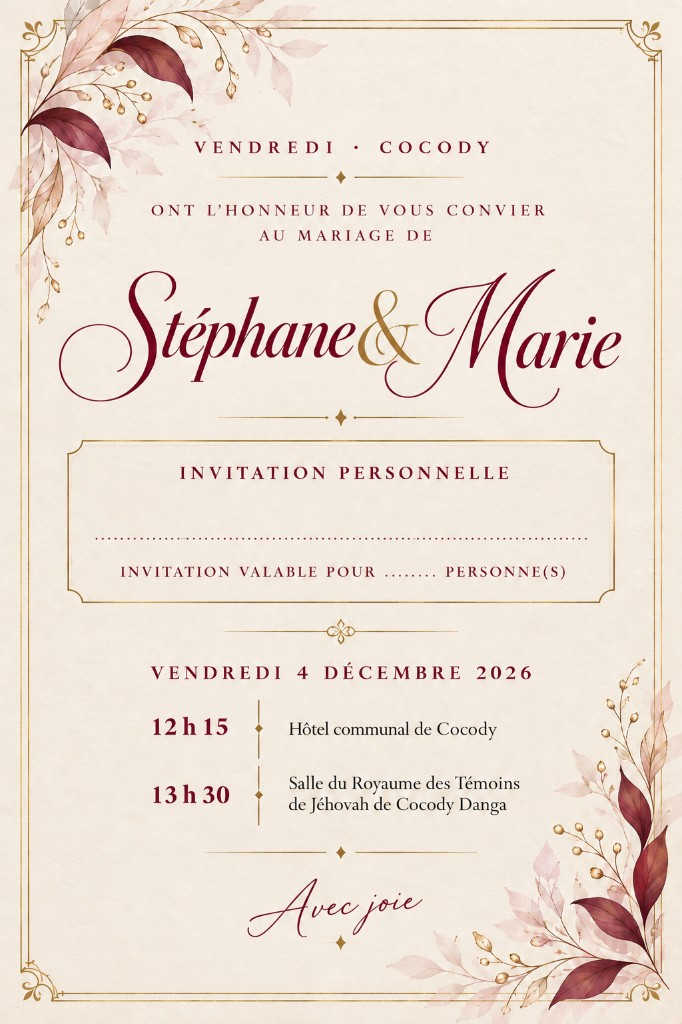
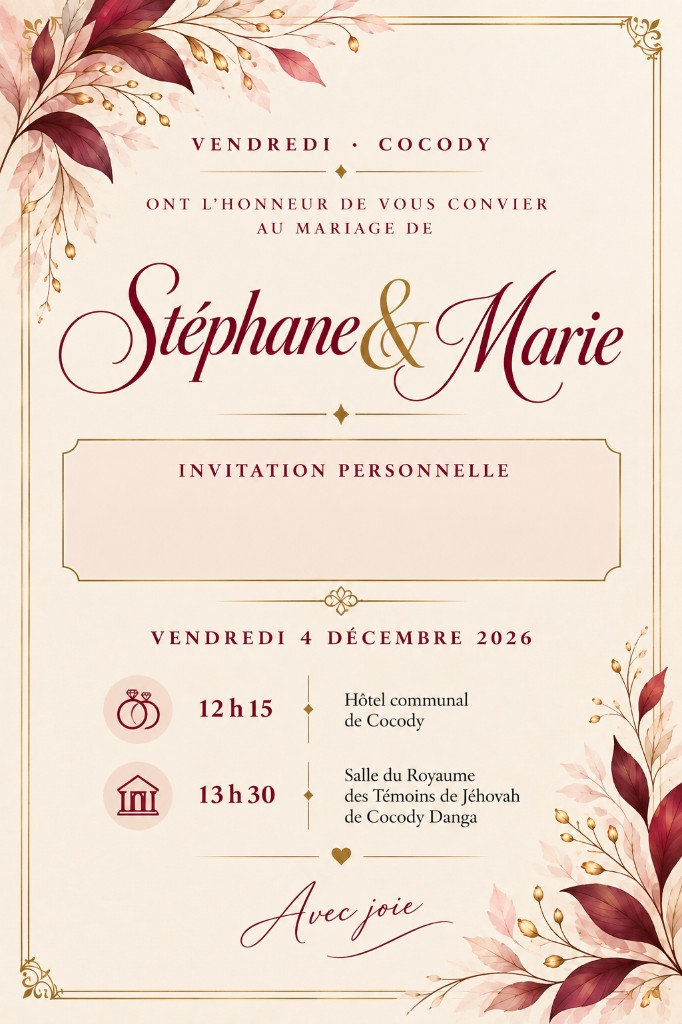
refactor: update PersonalInviteCard and CSS styles for improved layout, responsiveness, and visual consistency. Introduce new fields and enhance accessibility with updated aria-labels and translations.

diff --git a/src/index.css b/src/index.css
@@ -2349,63 +2349,133 @@ body {
     user-select: none;
 }
 
-.personal-invite-overlay {
+.personal-invite-fields {
     position: absolute;
-    z-index: 1;
-    inset: 0;
+    z-index: 2;
+    top: var(--pi-fields-top, 43.75%);
+    left: var(--pi-fields-left, 14.4%);
+    width: var(--pi-fields-width, 71.2%);
+    height: var(--pi-fields-height, 11.5%);
+    box-sizing: border-box;
+    display: flex;
+    flex-direction: column;
+    align-items: stretch;
+    justify-content: space-between;
+    gap: 0;
+    padding: clamp(0.4rem, 2.2cqi, 0.6rem) clamp(0.45rem, 2.5cqi, 0.7rem)
+        clamp(0.45rem, 2.2cqi, 0.65rem);
+    overflow: hidden;
+    text-align: center;
     pointer-events: none;
 }
 
+.personal-invite-name-wrap {
+    display: flex;
+    flex: 1 1 auto;
+    align-items: flex-end;
+    justify-content: center;
+    min-height: 0;
+    padding-top: clamp(0.45rem, 2.4cqi, 0.75rem);
+    padding-bottom: clamp(0.05rem, 0.35cqi, 0.12rem);
+}
+
 .personal-invite-name {
-    position: absolute;
-    left: var(--pi-name-x, 50%);
-    top: var(--pi-name-y, 49.6%);
-    width: var(--pi-name-max-w, 68%);
+    width: 100%;
+    max-width: 100%;
     margin: 0;
-    transform: translate(-50%, -50%);
-    font-family: "Cormorant Garamond", Georgia, "Times New Roman", serif;
-    font-size: var(--pi-name-fs, 3.67cqi);
+    font-family: "Cormorant Garamond", "Playfair Display", Georgia, serif;
+    font-size: var(--pi-name-fs, 4.11cqi);
     font-weight: 600;
+    font-style: italic;
     font-synthesis: none;
-    line-height: 1.15;
-    letter-spacing: 0.025em;
-    text-align: center;
+    line-height: 1.08;
+    letter-spacing: 0.03em;
     text-transform: none;
     white-space: nowrap;
     overflow: hidden;
     text-overflow: ellipsis;
-    color: #521018;
+    color: #5a0a18;
+    text-shadow: 0 0.5px 0 rgba(255, 252, 248, 0.35);
 }
 
 .personal-invite-name--md {
-    font-size: var(--pi-name-fs-md, 3.23cqi);
+    font-size: var(--pi-name-fs-md, 3.52cqi);
 }
 
 .personal-invite-name--sm {
-    font-size: var(--pi-name-fs-sm, 2.79cqi);
-    letter-spacing: 0.018em;
+    font-size: var(--pi-name-fs-sm, 2.93cqi);
 }
 
 .personal-invite-name--xs {
-    font-size: var(--pi-name-fs-xs, 2.35cqi);
-    letter-spacing: 0.012em;
+    font-size: var(--pi-name-fs-xs, 2.49cqi);
 }
 
-.personal-invite-count {
-    position: absolute;
-    left: var(--pi-count-x, 59.4%);
-    top: var(--pi-count-y, 55.5%);
-    margin: 0;
-    transform: translate(-50%, -50%);
-    font-family: Cinzel, "Cormorant Garamond", Georgia, serif;
-    font-size: var(--pi-count-fs, 2.13cqi);
-    font-weight: 700;
-    font-synthesis: none;
-    font-variant-numeric: tabular-nums;
+.personal-invite-sep {
+    display: flex;
+    flex-shrink: 0;
+    align-items: center;
+    justify-content: center;
+    gap: clamp(0.25rem, 1.2cqi, 0.45rem);
+    width: 100%;
+    margin: clamp(0.05rem, 0.35cqi, 0.15rem) 0;
+    opacity: 0.88;
+}
+
+.personal-invite-sep-line {
+    flex: 1 1 38%;
+    max-width: 5.5rem;
+    height: 1px;
+    background: linear-gradient(
+        90deg,
+        transparent,
+        rgba(201, 169, 98, 0.45) 20%,
+        rgba(201, 169, 98, 0.75) 50%,
+        rgba(201, 169, 98, 0.45) 80%,
+        transparent
+    );
+}
+
+.personal-invite-sep-gem {
+    flex-shrink: 0;
+    font-family: Cinzel, serif;
+    font-size: clamp(0.35rem, 1.05cqi, 0.5rem);
     line-height: 1;
+    color: #c9a962;
+}
+
+.personal-invite-party-line {
+    flex-shrink: 0;
+    margin: 0;
+    max-width: 100%;
+    font-family: Cinzel, "Cormorant Garamond", Georgia, serif;
+    font-size: var(--pi-party-fs, 1.69cqi);
+    font-weight: 600;
+    line-height: 1.35;
     letter-spacing: 0.05em;
-    text-align: center;
-    color: #521018;
+    text-transform: uppercase;
+    text-wrap: balance;
+    color: #4a0e17;
+    text-shadow:
+        0 1px 0 rgba(255, 252, 248, 0.85),
+        0 0 1px rgba(255, 252, 248, 0.5);
+}
+
+.personal-invite-party-label {
+    font-weight: 600;
+    letter-spacing: 0.06em;
+    color: #4a0e17;
+}
+
+.personal-invite-party-count {
+    font-size: var(--pi-party-count-fs, 2.05cqi);
+    font-weight: 700;
+    letter-spacing: 0.03em;
+    color: #7a5a12;
+}
+
+.personal-invite-party-unit {
+    font-weight: 600;
+    color: #4a0e17;
 }
 
 .palette-gem {

diff --git a/src/components/invite/PersonalInviteCard.jsx b/src/components/invite/PersonalInviteCard.jsx
@@ -4,9 +4,10 @@ import {
   guestNameSizeClass,
   personalInviteCssVars,
 } from "@/lib/personal-invite-layout";
+import { useI18n } from "@/lib/locale";
 import { useEffect } from "react";
 
-const SEND_CARD_BG = `${process.env.PUBLIC_URL || ""}/images/carte-invitation-envoi.jpg?v=20261017-stephane-marie`;
+const SEND_CARD_BG = `${process.env.PUBLIC_URL || ""}/images/carte-invitation-envoi.jpg?v=20261017-florale-raffinee2`;
 
 const partySize = (guest) => 1 + Number(guest?.accompagnants || 0);
 
@@ -14,8 +15,10 @@ const partySize = (guest) => 1 + Number(guest?.accompagnants || 0);
  * @param {{ guest: { nom: string, accompagnants?: number }, testId?: string }} props
  */
 export default function PersonalInviteCard({ guest, testId = "personal-invite-card" }) {
+  const { m } = useI18n();
   const displayName = guestNameDisplay(guest?.nom);
   const count = partySize(guest);
+  const partyWord = count > 1 ? m.inviteSection.persons : m.inviteSection.person;
 
   useEffect(() => {
     void ensureInviteCardFontsReady();
@@ -29,7 +32,7 @@ export default function PersonalInviteCard({ guest, testId = "personal-invite-ca
       <div
         className="personal-invite-shell"
         style={personalInviteCssVars()}
-        aria-label={displayName ? `${displayName}, ${count} personne(s)` : undefined}
+        aria-label={displayName ? `${displayName}, ${count} ${partyWord}` : undefined}
       >
         <img
           src={SEND_CARD_BG}
@@ -39,16 +42,25 @@ export default function PersonalInviteCard({ guest, testId = "personal-invite-ca
           decoding="async"
           draggable={false}
         />
-        <div className="personal-invite-overlay">
-          {displayName ? (
-            <p className={`personal-invite-name ${guestNameSizeClass(displayName)}`.trim()}>
-              {displayName}
+        {displayName ? (
+          <div className="personal-invite-fields">
+            <div className="personal-invite-name-wrap">
+              <p className={`personal-invite-name ${guestNameSizeClass(displayName)}`.trim()}>
+                {displayName}
+              </p>
+            </div>
+            <div className="personal-invite-sep" aria-hidden="true">
+              <span className="personal-invite-sep-line" />
+              <span className="personal-invite-sep-gem">✦</span>
+              <span className="personal-invite-sep-line" />
+            </div>
+            <p className="personal-invite-party-line">
+              <span className="personal-invite-party-label">{m.inviteSection.personalValidFor}</span>{" "}
+              <span className="personal-invite-party-count">{count}</span>{" "}
+              <span className="personal-invite-party-unit">{partyWord}</span>
             </p>
-          ) : null}
-          <p className="personal-invite-count" aria-hidden={!displayName}>
-            {count}
-          </p>
-        </div>
+          </div>
+        ) : null}
       </div>
     </article>
   );

diff --git a/src/lib/personal-invite-layout.js b/src/lib/personal-invite-layout.js
@@ -1,36 +1,39 @@
-/** Coordonnées calées sur carte-invitation-envoi.jpg (682 × 1024 px). */
+/** Coordonnées calées sur carte-invitation-envoi.jpg — faire-part florale raffinée (682 × 1024). */
 export const PERSONAL_INVITE_CARD = {
   width: 682,
   height: 1024,
-  name: {
-    x: 341,
-    y: 508,
-    maxWidth: 468,
-    fontSize: 25,
-    fontSizeMd: 22,
-    fontSizeSm: 19,
-    fontSizeXs: 16,
+  /** Intérieur du cadre rose (sous « INVITATION PERSONNELLE » imprimé). */
+  fields: {
+    top: 456,
+    left: 98,
+    width: 486,
+    height: 118,
   },
-  count: {
-    x: 405,
-    y: 568,
-    fontSize: 14.5,
+  name: {
+    fontSize: 28,
+    fontSizeMd: 24,
+    fontSizeSm: 20,
+    fontSizeXs: 17,
+  },
+  partyLine: {
+    fontSize: 11.5,
+    countFontSize: 14,
   },
 };
 
 export function personalInviteCssVars() {
-  const { width, height, name, count } = PERSONAL_INVITE_CARD;
+  const { width, height, fields, name, partyLine } = PERSONAL_INVITE_CARD;
   return {
-    "--pi-name-x": `${(name.x / width) * 100}%`,
-    "--pi-name-y": `${(name.y / height) * 100}%`,
-    "--pi-name-max-w": `${(name.maxWidth / width) * 100}%`,
-    "--pi-count-x": `${(count.x / width) * 100}%`,
-    "--pi-count-y": `${(count.y / height) * 100}%`,
+    "--pi-fields-top": `${(fields.top / height) * 100}%`,
+    "--pi-fields-left": `${(fields.left / width) * 100}%`,
+    "--pi-fields-width": `${(fields.width / width) * 100}%`,
+    "--pi-fields-height": `${(fields.height / height) * 100}%`,
     "--pi-name-fs": `${(name.fontSize / width) * 100}cqi`,
     "--pi-name-fs-md": `${(name.fontSizeMd / width) * 100}cqi`,
     "--pi-name-fs-sm": `${(name.fontSizeSm / width) * 100}cqi`,
     "--pi-name-fs-xs": `${(name.fontSizeXs / width) * 100}cqi`,
-    "--pi-count-fs": `${(count.fontSize / width) * 100}cqi`,
+    "--pi-party-fs": `${(partyLine.fontSize / width) * 100}cqi`,
+    "--pi-party-count-fs": `${(partyLine.countFontSize / width) * 100}cqi`,
   };
 }
 

diff --git a/src/lib/translations.js b/src/lib/translations.js
@@ -54,6 +54,7 @@ export const messages = {
       honor: "Ont l'honneur de vous convier",
       toWedding: "à leur mariage",
       reserved: "Réservé à",
+      personalValidFor: "Invitation valable pour",
       person: "personne",
       persons: "personnes",
       joy: "Avec joie ✦",
@@ -406,6 +407,7 @@ export const messages = {
       honor: "Have the honour of inviting you",
       toWedding: "to their wedding",
       reserved: "Reserved for",
+      personalValidFor: "This invitation is valid for",
       person: "guest",
       persons: "guests",
       joy: "With joy ✦",

diff --git a/src/lib/invite-card-capture.js b/src/lib/invite-card-capture.js
@@ -4,6 +4,11 @@ const INVITE_CARD_FONT_LOADS = [
   '600 19px "Cormorant Garamond"',
   '600 22px "Cormorant Garamond"',
   '600 25px "Cormorant Garamond"',
+  '600 italic 28px "Cormorant Garamond"',
+  '600 10px Cinzel',
+  '600 11px Cinzel',
+  '600 12px Cinzel',
+  '700 14px Cinzel',
   '700 14px Cinzel',
   '700 15px Cinzel',
 ];
